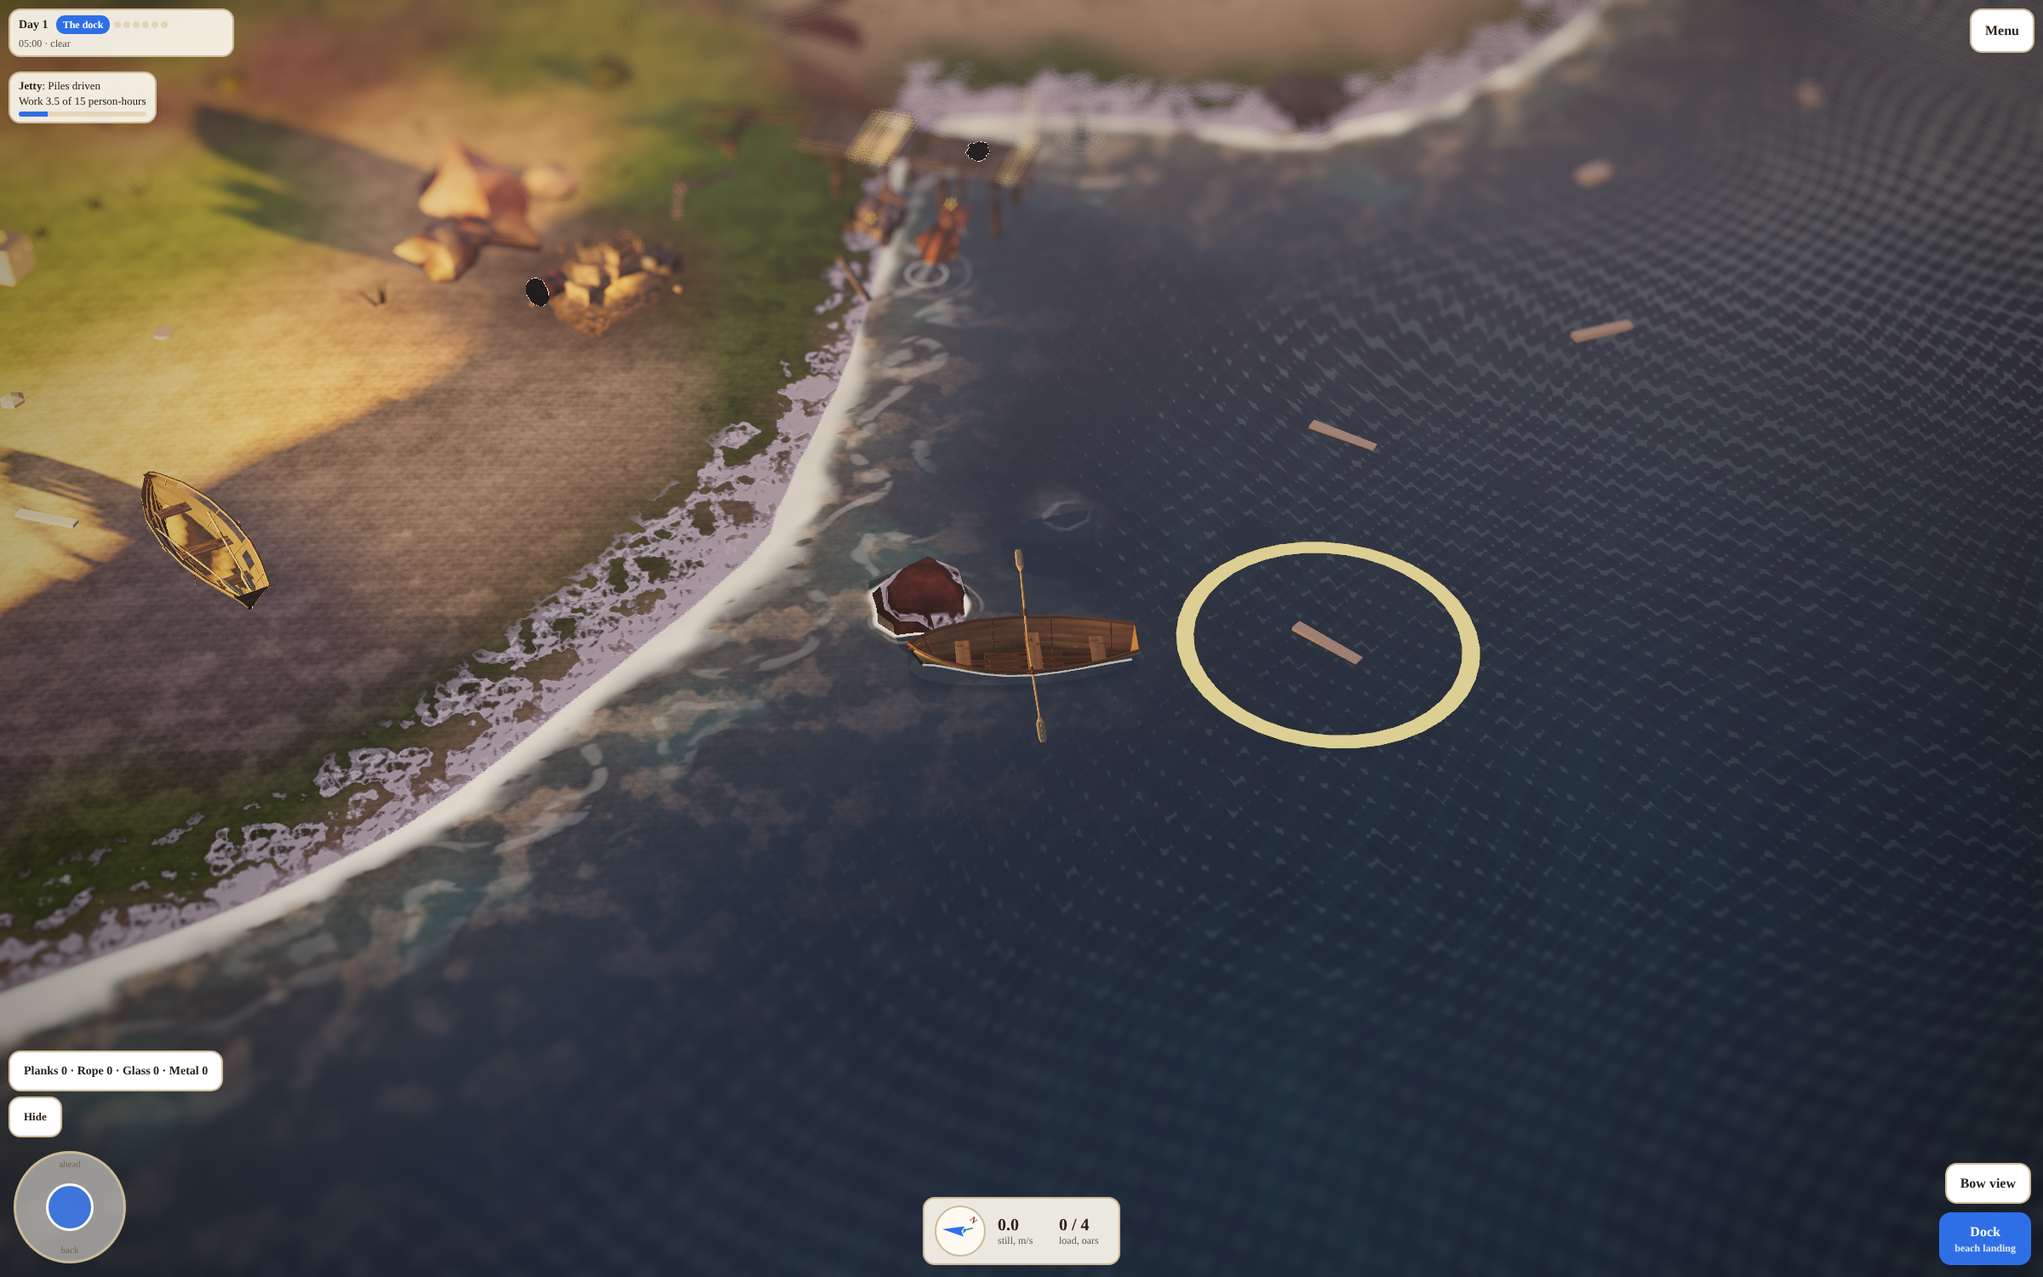
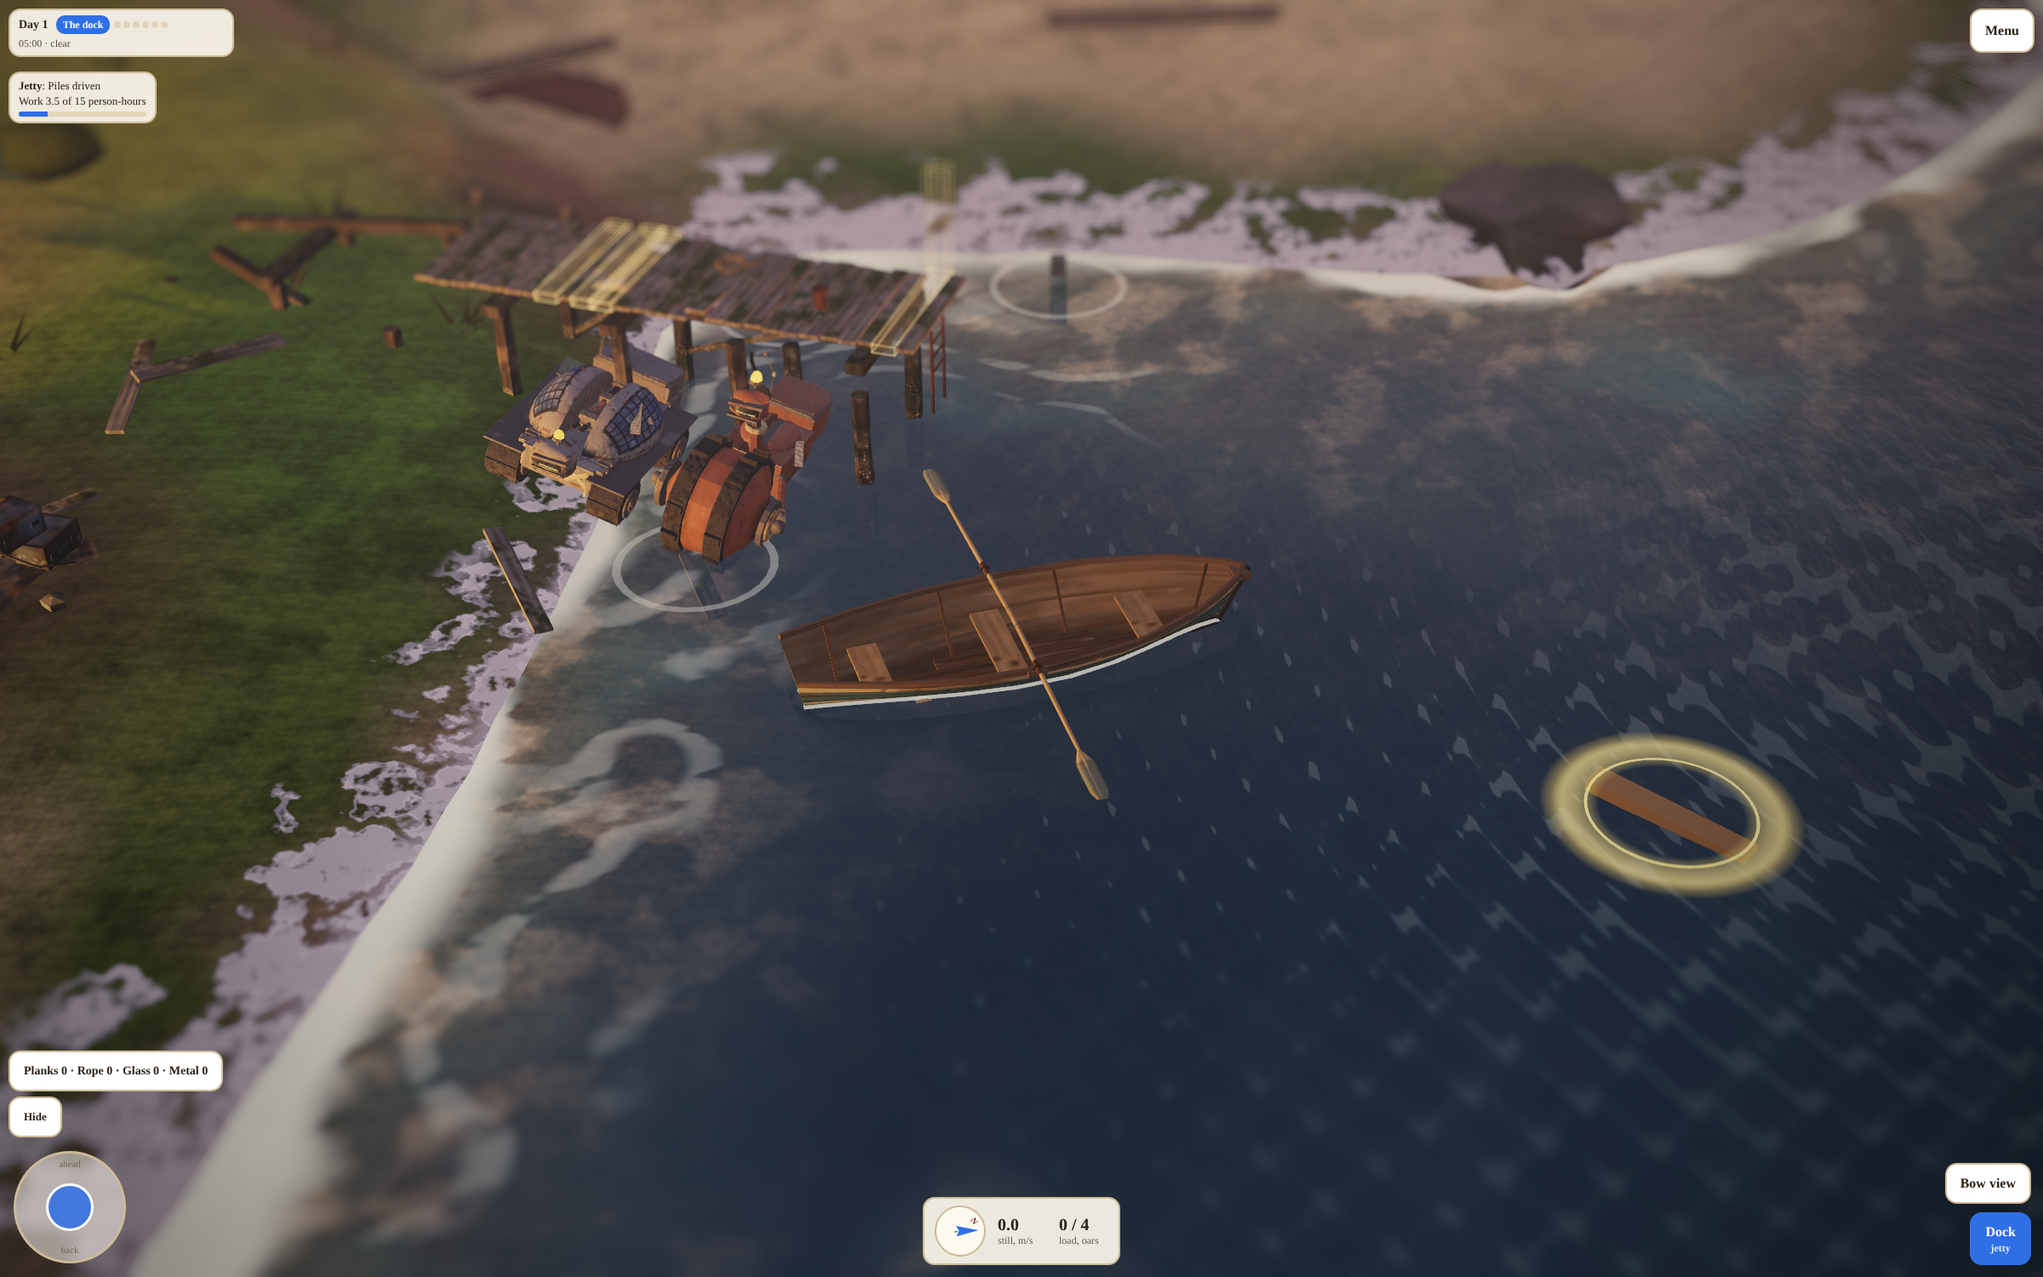
Job 6 wrap-up: exact status, Left list, test results, re-rendered arrival, ferrying and frame-stage pictures
Claude-Session: https://claude.ai/code/session_0171oc5wTsPoimaja7RRfUcs

diff --git a/games/living-islands/GIFT_PHYSICAL.md b/games/living-islands/GIFT_PHYSICAL.md
@@ -138,7 +138,7 @@ iPad: open `islands_look.html?game=gift&device=ipad`. Check the corners (no test
 ## What changed (all under `&game=gift`; the default page is untouched: hash 8d962c0c, 88,790 triangles)
 1. **Pixel check first** (`tests/pixel-check.js`): a reusable headless render check with a pure-node PNG decoder. It renders arrival, ferrying, heaps, a build stage, the storm haul and the boat with the HUD hidden, and fails on a near-black patch, a flat cream shape, a big flat colour patch, a dark blob with a bright rim that is round and small (the black ovals), and a projected heap box that is dark (the "instanced pieces drew black" bug). `checkPng(buf, opts)`, `blackOvals`, `boxLum` are exported for page tests. Run: `NODE_PATH=$(npm root -g) node tests/pixel-check.js [only=arrival,ferry,heaps,build,storm,boat]`. Tolerances are fractions of the picture area (black 0.6 percent, cream 0.4 percent, flat 2 percent; the build and heap scenes allow more dark because the pines are nearly black). It was checked the other way too: it flags both black ovals and the cream shape in the old pictures (phys-0-arrival, phys-3) and passes the repaired ones.
 2. **The two black ovals found and fixed.** They were the open tops of the kit's bollard (at the dock) and barrel (in the beach crate stack). Found by hiding scene groups (camp and repair each removed one) and then testing materials live: metalness, side, map, normal map, shadow and AO changes did nothing; `flatShading = true` fixed both, so the cap faces have bad smooth normals. `physical.js sweepTick` sets flat shading on those three meshes (`bollard`, `barrel`, `drum`) and caps kit-metal metalness at 0.3 (no environment map on this page).
-3. **The large cream parallelogram is a gull.** It is one of the nine gulls of `islands_look.html buildGulls` (a flat 1.8 by 0.6 m quad, MeshBasic 0x7f7f71), circling at 7 to 16 m, which passes in front of the zoomed-in camera. It stays when the physical layer is hidden because it is the page's. Under the gift, a gull nearer than 60 m to the camera is hidden (`sweepTick`; 22 m was tried first and the shape still showed in phys-3). The default page keeps its gulls.
+3. **The large cream parallelogram: NOT fixed, cause not proven.** The scene search at the picture's screen position found one candidate: one of the nine gulls of `islands_look.html buildGulls` (a flat 6-vertex quad, MeshBasic, circling 6 to 16 m up). `physical.js sweepTick` hides gull-like quads nearer than 60 m to the camera on a gift page (22 m was tried first). A re-render of phys-3 after the 60 m change STILL shows the cream shape at the left of the frame, so either the gull match in `sweepTick` does not select it (the gull scale and colour are animated and HDR-tinted, so the match may miss) or it is another object. It stays when the physical layer is hidden, so it is the page's. The pixel check flags it in the old pictures and in any scene where it appears; the check passes only where it is out of frame. Open: find it by hiding scene objects one at a time at that exact view (tests/pixel-check.js gives the detector).
 4. **Stalled robots readable at the arrival camera.** The rowing boat now starts a few strokes off the dock (not at the beach landing), the floating supplies fan out seaward from the boat (the first one is a few strokes away), the arrival camera frames dock and boat together (a short glide in, or at once with `&glide=0`), the marker is a thin gold ring with a soft additive glow that stays small when zoomed out, robots are drawn a third larger, and the nearest floating supply is the one marked. Matched from targets/look/07_First_day.jpg: the dock in the upper half, the boat in the lower middle, a thin gold ring round a floating plank, the plank beside it, stock strip, one hint, stick, Dock button. Not matched: the picture's wooden-panel skin (kept our paper panels), its two-stage dock with metal brackets (our dock is the repair pilot's wreck with planks fitted; yellow ghost slots show what is missing), the pearl dawn light and caustics (lighting targets), a person in the boat (none drawn). Also not matched: the picture shows the second plank very near the first (ours is a few metres further).
 5. **Robot lamp eyes (OWNER, 25 Nov, replaces the no-eyes rule).** The robot models carry a visor lens strip (material `Glow`) that `camp_start.js` kept dark. Under the gift it is the lamp eyes: green when working, amber and lower while stalled at the dock (the machine also sinks 6 percent, a droop), dim when the battery is low, a blink every three to five seconds, brighter for a moment when supplies arrive. No mouths, no speech, no written feelings. It is a strip on the model (not two round eyes); the status lamp on the head is the old amber or green light. Models without the strip get nothing added. The tests that blocked "face" and "eyes" words now block mouths, speech and feelings only (physical-test.js, gift-day-test.js).
 6. **Owner bug: the dock blocked the build menu.** Cause (confirmed by a real-tap test): the dock in progress held the physical build slot, `canCommit` said "One thing is going up already" and the card's Build button was disabled (a dead grey button, reason in small print). Fix: the dock is not the year's one build; a build chosen while it goes up is paid and queued (`ph().q`, saved) and starts when the dock is finished; cards that cannot be chosen are dim, not disabled, and a tap shows "Needs 3 metal, 1 planks: you have 0 metal, 0 planks. Set a robot to Metal and Planks (daytime), or gather it by hand."
@@ -150,25 +150,29 @@ iPad: open `islands_look.html?game=gift&device=ipad`. Check the corners (no test
 - `tests/pixel-check.js` (new). `tests/build-tap-test.js` (new, real taps at 834x1062 touch and 1280x720 mouse: the permanent Build button, the cards, dim cards say why, builds start, the dock-in-progress regression). `tests/inspect-test.js` (new: the table walk over four states of the day, the classes in six states, hover, touch). `physical-test.js` and `gift-day-test.js`: the eye rule. `boat-drive-test.js` section 10: the Radeon step-down (97 of 97).
 - The inspect test found a real bug on the first run: a bobbing floating supply dragged the card and its button about, so the tap never landed. Fixed (the card moves only when the object has moved more than 24 px).
 
-## Left for the next page job (Job 6 did not reach these; nothing here is built)
-The owner's playtest sent a long list during Job 6. The urgent ones were done (the build menu, the Build button, the inspect layer, the Radeon step-down, the black ovals and the gull, lamp eyes, the camera floor); the rest is open, in the order the owner raised it:
-1. **Robot stops, with reasons.** Not investigated: no scripted three-robot log of every transition into a stopped state, no reason codes, no icons over robots, no recent-stops list, no Why line. Suspects named by the coordinator (charge-threshold aborts, borrowed-robot aborts, no reachable site, tide blocking the path, waiting for a partner or a part, the heavy-crate partner call, the stalled dock robots) are untested. Known from reading the code: `errandsTick` aborts a ferry errand when `r.charge < .14` or at night/rain (`abortErrand`), and `freeRobots` returns no robot while it is night or raining: those are the two likeliest repeated stops.
-2. **Night.** Not built: charging in shifts (at most half charge at once), battery and solar upgrades in the catalogue, the "Robots charging. Back at dawn." cue, "Wait for dawn" and automatic time acceleration, hand gathering by lantern light with a hand rate matched to one robot, the night hint. `camp_start.js` sends every robot home when `env.night` (`shelter`), which is why the game halts at night.
-3. **Starter buffer** for the first cistern in the first delivery, and the `Skip to...` entries setting a normal day's stock. The build card now says what is missing and where to get it, but the buffer is not added.
-4. **Exploration**: a glowing marker and compass arrow to the outer skerry after the dock, a Chart button listing known places, the hint "Something is wedged on the skerry." Not built. Ambient boats are untouched (kept).
-5. **The glow rule for every ringed object** (state its need in a line; a locked object does not glow) is built into the inspect layer for the objects listed above, but the heavy letter crate, the skerry crate and an evening-delivery crate were not individually checked for the "box that glows and can't be used" report: **I could not find which object it was without the owner's save**; the inspect card now says "Tap to call a robot" or the reason for any crate, and the gold class only goes to a crate that can be acted on now.
-6. **Hold feedback for every hold action**: only the lantern got the before and after (hint, message, flare). The beam, the stage holds and the crate carries have hints and toasts as before.
-7. **Build chain made explicit** (five-step strip on build cards, a named kit crate delivered by the boat and carried to the site, builder-arm rule for heavy kits): not built; the cards name what is needed, and a build chosen during the dock is queued.
-8. **Track marks and wear paths, wrack-line litter arriving with the tide, visible stored stock bays beside the shed and a small pile at each build site**: not built. (Heaps at the yard exist, one per kind; they are the stock.)
-9. **Story v2 page items (STORY_REVISION_V2.md step 11)**: the small first storm with letter L3, the year-three big storm, the 360-day calendar, the one brass key, the tender's dry-boards offer with Decline, the cheap props (blanket box, crates with handles, dry shelf, hatch): none built.
-10. **The Not-done list of Job 5**: stock heaps beside the build site, a track link carried by hand to a waiting robot, delivery to the finished dock, dawn departure on the first morning, hand-carrying single units, less plain stage pieces and dock, moving the cottage and kiosk sites closer to the yard: none built. The second robot at the dock shows on the desktop tier (two robots) as before; low tier shows one.
-11. **Lighthouse stump base**: not inspected for a hollow or flat underside; no plinth. The free camera can no longer go under the ground or the sea on a gift page.
-12. **Later, for the plan (not for now)**: a road-making team (a robot with a gravel hopper turning the busiest worn paths into gravel, then plank road), a sapling nursery, a woodlot and a sawmill. Concept pictures are being made by an outside image model and will land in targets/flow.
+## Left for the next page job (Job 6 status, exactly)
+PUSHED and tested: the build menu fix (dock queue, dim cards with reasons, permanent Build button), the inspect layer, the lantern before and after feedback, the Radeon step-down, the pixel check, the black ovals, arrival framing, the thin gold ring, lamp eyes (visor strip), the camera floor on gift pages (no dedicated test yet).
+NOT DONE (a fresh builder should take these in small focused jobs, in this order):
+1. **Night**: robots charge in shifts (at most half at once; a draft is NOT committed: camp_start.js `shelter` sends every robot home when `env.night`, and `wantHome`/`decide` and the bay leave threshold .85 are the three places to change; camp-test.js still passes with such a change), battery and solar upgrades in the catalogue, the "Robots charging. Back at dawn." cue, "Wait for dawn" and automatic time acceleration (`G.fast` exists), hand gathering that always works (at night only inside the lantern's lit radius, rate matched to one robot), the night hint ("Robots charging. Work by lantern, or wait for dawn."), a hand-versus-robot rate readout and its tests.
+2. **Starter buffer** for the first cistern in the first delivery; `Skip to...` entries must set a normal day's stock and carry a test label.
+3. **Exploration**: a glowing marker and compass arrow to the outer skerry after the dock, a Chart button, the hint "Something is wedged on the skerry." Ambient boats stay.
+4. **Robot stops**: investigate with a scripted three-robot day (log every transition to a non-working state with a reason code), icons over robots, the card sentence, the recent-stops list in the notebook, a Why line in the supply panel, the test that no robot stops without a reason code. Likeliest causes from reading: `errandsTick` aborts when `r.charge < .14` or at night or in rain; `freeRobots` returns none at night or in rain; the dock robots stay stalled.
+5. **Washed-up timber and litter arriving with the tide** at the wrack line; **storage bays** at the yard (sorted stacks beside the shed) and a small pile at each build site; **soft fading track marks** and **worn desire paths** (saved coarse wear grid).
+6. **The kit-crate build chain**: a five-step strip on build cards, a named kit crate delivered by the boat and carried to the site before stage 1, visible laid-out parts, distinct stage pieces, the builder-arm rule for heavy kits, "Needs: builder arm" as a reason.
+7. **The glow rule for every ringed object**: covered for the objects in the inspect tables; the report of "a box that lights up and cannot be used" on the first evening was NOT traced (no save to reproduce it; candidates: the heavy letter crate, the skerry motor crate, an evening-delivery crate). Hold feedback (hint before, message and a visible cause after) exists only for the lantern, not for the beam, the stage holds or the crate carries.
+8. **Pictures**: only phys-0-arrival and phys-0b-ferrying are re-rendered and acceptable (viewed). phys-3 was re-rendered and is WEAK (a robot with a lamp-eye strip walks at the right, but the site is a few stakes at the top left and the cream shape is still in frame). phys-1, phys-2, phys-4, phys-5 and phys-ipad-hud were NOT re-rendered in this job (the render script was changed for 3, 4 and 5 but the long runs did not finish); the files in shots/ for those five are the Job 5 versions with their flaws as listed under Pictures above. The pictures that must be re-taken: phys-3 (frame stage with robots ferrying), phys-4 (the beam carry with the marker), phys-5 (dusk, robots returning, lights on), phys-ipad-hud (834x1062).
+9. **The cream parallelogram** (change 3) and the **lighthouse stump base** (hollow or floating underside, plinth) and a **camera-floor test at five positions including the lamp headland**: open.
+10. **Story v2 page items (STORY_REVISION_V2.md step 11)**: the small first storm with letter L3, the big storm only from day 842 in year three, the 360-day calendar, the one brass key, the tender's dry boards with Decline, the cheap props (blanket box, crates with handles, dry shelf on the collector rack, hatch beside the hut door): none started.
+11. **The Not-done list of Job 5**: heaps beside the build site, a track link carried by hand to a waiting robot, delivery to the finished dock, dawn departure, hand-carrying single units, less plain stage pieces and dock, cottage and kiosk sites about 25 m closer to the yard: none started. (Two robots show at the dock on the desktop tiers; low tier shows one.)
+12. **Later (the plan, not now)**: a road-making team (a robot with a gravel hopper turning the busiest worn paths into gravel, then plank road), a sapling nursery, a woodlot and a sawmill. Concept pictures are coming in targets/flow.
 13. As before: speaker, picnic rock, boat shed lock, carpet texture, mooring rings, notch, cave crate, thumb-scoop drawers, boxed stones, workbench prelude card, beach mark UI, first wet morning drip.
 
 ## Changelog (Job 6)
 - **OWNER bug**: the dock blocked the build menu (see change 6 above). Commit 41c77c9.
 - **OWNER bug**: Radeon VII stepped down as an iPad (the probe asked for the default GPU). Commit 927bab1. Detail in the changelog line above.
 - **OWNER**: permanent Build button; **OWNER**: the inspect layer; **OWNER**: lamp eyes (a visor strip, no mouths or speech); **OWNER**: the free camera never goes under the ground or the sea on a gift page; **OWNER**: lantern feedback.
-- Not an owner change, a fix: black ovals (flat shading on kit caps), the cream parallelogram (a gull, hidden under 60 m from the camera). **BOLD (logged, no switch)**: the rowing boat starts a few strokes off the dock instead of at the beach landing, and the floating supplies are placed round it (a shorter first row: this deviates from the pace of the previous opening, where the first supply was 9 to 30 m from the tender point); the arrival camera framing. Pace reference by day (one load to the heap every 64 s, about 2.4 of 3 robots out) is unchanged: the camp routine was not touched.
+- Not an owner change, a fix: black ovals (flat shading on kit caps). The cream parallelogram is NOT fixed (see change 3). **BOLD (logged, no switch)**: the rowing boat starts a few strokes off the dock instead of at the beach landing, and the floating supplies are placed round it (a shorter first row: this deviates from the pace of the previous opening, where the first supply was 9 to 30 m from the tender point); the arrival camera framing. Pace reference by day (one load to the heap every 64 s, about 2.4 of 3 robots out) is unchanged: the camp routine was not touched.
 - Hex colours in physical.js are now converted from sRGB (the heaps and stage pieces were drawn pale and washed in the old pictures).
+
+## Test results (Job 6, software GL)
+physical-page-test 47 of 47, hud-test 66 of 66, physical-test 92 of 92, gift-day-test 115 of 115, boat-drive-test 97 of 97 (includes the Radeon step-down rules), storm-test all passed, look-test and ultra-test no failures, build-tap-test (dock section 12 of 12 at both sizes; the cards section was run to the cistern in the touch run only), inspect-test (touch 6 of 6; table, six states and hover passed in the first run, before two later small changes that were re-checked only in the touch section), pixel-check (arrival, ferrying, heaps pass; the build and storm scenes failed on false positives, tolerances were then loosened and checked offline against saved pictures, not re-run end to end). The default page: hash 8d962c0c, 88,790 triangles (checked by the dock-section page test run and the physical page test). Known old failures not re-run: camp-page-test world 4, repair-page-test jetty tap, world 153 tests in a sparse checkout, light-page-test.
